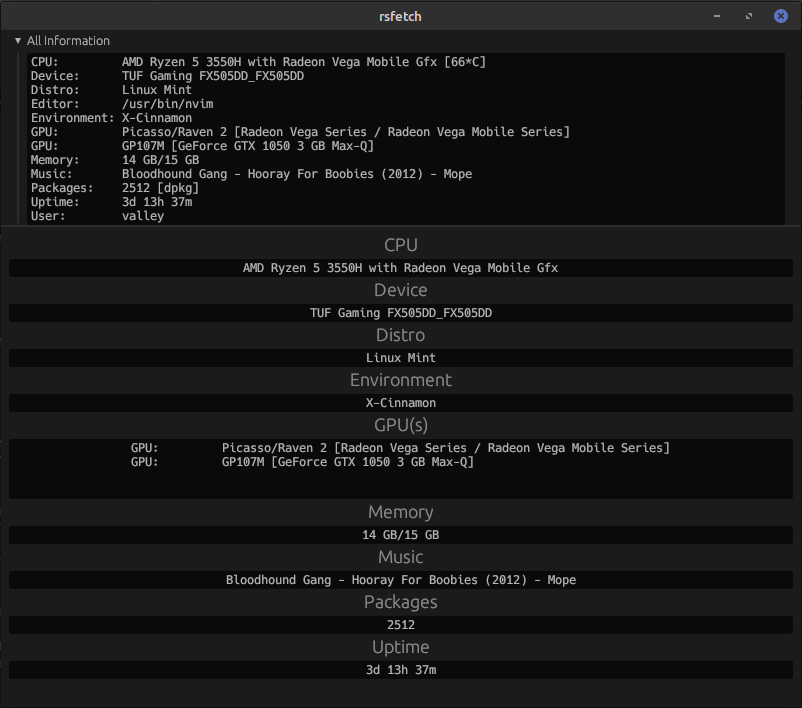
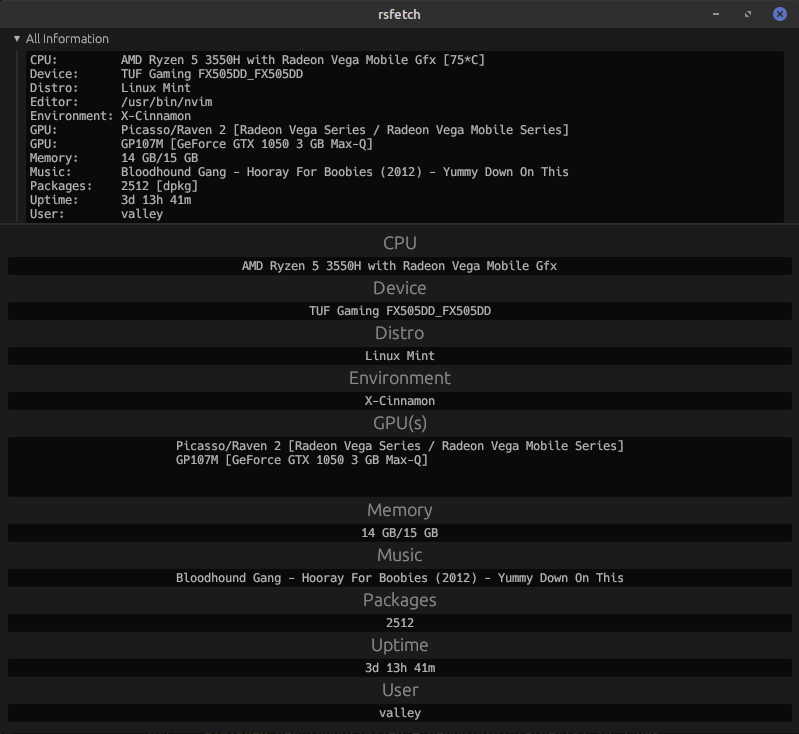
fixes

diff --git a/src/main.rs b/src/main.rs
@@ -23,9 +23,12 @@ fn main() -> Result<(), eframe::Error> {
     let environment   = environment().unwrap();
     let gpus          = gpu().unwrap();
     let mut gpu_string: String = String::new();
+    let mut gpu_string_nf: String = String::new();
     for gpu in gpus {
         let string = format!("GPU:         {gpu}\n");
+        let string_nf = format!("{gpu}\n");
         gpu_string.push_str(&string);
+        gpu_string_nf.push_str(&string_nf);
     }
     let memory_total  = memory_total().unwrap();
     let memory_used   = memory_used().unwrap();
@@ -95,7 +98,7 @@ fn main() -> Result<(), eframe::Error> {
                     .code_editor()
                 );
                 ui.heading("GPU(s)");
-                ui.add(egui::TextEdit::multiline(&mut gpu_string.trim().to_owned())
+                ui.add(egui::TextEdit::multiline(&mut gpu_string_nf.trim().to_owned())
                     .horizontal_align(eframe::emath::Align::Center)
                     .desired_width(f32::INFINITY)
                     .code_editor()
@@ -120,6 +123,12 @@ fn main() -> Result<(), eframe::Error> {
                 );
                 ui.heading("Uptime");
                 ui.add(egui::TextEdit::singleline(&mut uptime.to_owned())
+                    .horizontal_align(eframe::emath::Align::Center)
+                    .desired_width(f32::INFINITY)
+                    .code_editor()
+                );
+                ui.heading("User");
+                ui.add(egui::TextEdit::singleline(&mut user.to_owned())
                     .horizontal_align(eframe::emath::Align::Center)
                     .desired_width(f32::INFINITY)
                     .code_editor()
